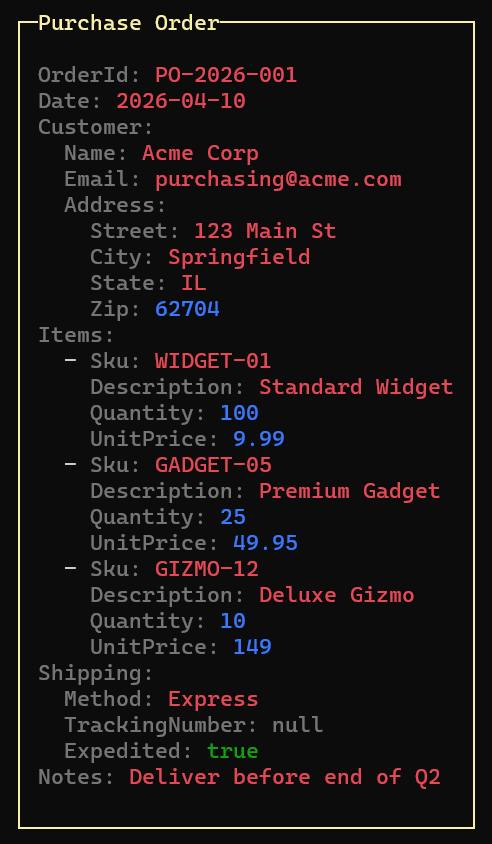
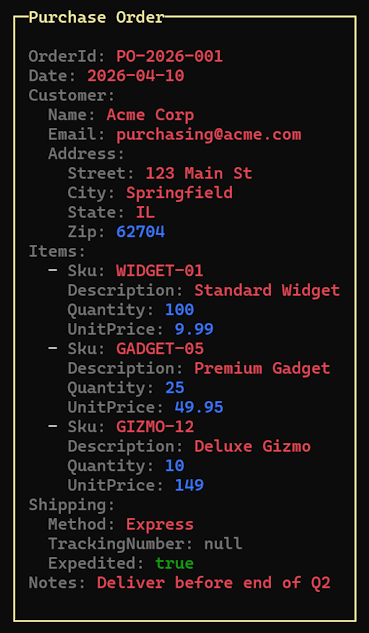
Add documentation

diff --git a/AGENTS.md b/AGENTS.md
@@ -1,0 +1,156 @@
+# Spectre.Yaml — Agent & Contributor Guide
+
+This file documents the architecture, conventions, and workflows for contributors and AI agents
+working on this repository.
+
+## Repository layout
+
+```
+Spectre.Yaml/
+├── readme.md                      # User-facing documentation (rendered on GitHub + NuGet)
+├── src/
+│   ├── Spectre.Yaml/
+│   │   ├── YamlText.cs            # Core implementation (YamlText + YamlTextExtensions)
+│   │   └── readme.md              # NuGet package readme (includes root readme.md#content)
+│   ├── Tests/
+│   │   └── YamlTextTests.cs       # xUnit tests
+│   ├── Sample/
+│   │   └── Program.cs             # Runnable demo showing YamlText inside a Panel
+│   ├── Directory.Build.props      # Shared build/NuGet/versioning defaults
+│   └── Directory.Build.targets    # Shared build targets (packaging, source control)
+└── .github/
+    └── workflows/                 # CI (build, test, release)
+```
+
+## Build and test
+
+```shell
+dotnet build Spectre.Yaml.slnx
+dotnet test  Spectre.Yaml.slnx
+```
+
+- Target framework: **net10.0**
+- Language version: **Latest** (C# 13+), **Nullable** enabled, `strict` features
+- Warnings-as-errors in CI and Release configurations
+
+## Architecture
+
+### `YamlText` (Spectre.Console namespace)
+
+`YamlText` extends `JustInTimeRenderable` (from `Spectre.Console`). The heavy work is deferred
+to `Build()`, which is called by Spectre's rendering pipeline exactly once and must return an
+`IRenderable`.
+
+```
+YamlText : JustInTimeRenderable
+  ├── string yaml          (raw YAML, never null)
+  ├── Style? KeyStyle      (default: Color.Grey)
+  ├── Style? StringStyle   (default: Color.Red)
+  ├── Style? NumberStyle   (default: Color.Blue)
+  ├── Style? BooleanStyle  (default: Color.Green)
+  ├── Style? NullStyle     (default: Color.Grey)
+  └── Style? CommentStyle  (default: Color.Grey + Decoration.Dim)
+```
+
+**Constructors**
+
+| Constructor | Input | Notes |
+|---|---|---|
+| `YamlText(string yaml)` | Raw YAML | Primary constructor |
+| `YamlText(JsonNode json)` | `System.Text.Json.Nodes.JsonNode` | Converted via `ConvertJsonToYaml` |
+| `YamlText(JsonElement json)` | `System.Text.Json.JsonElement` | Converted via `ConvertJsonToYaml` |
+| `YamlText(object value)` | Arbitrary .NET object | Serialized with `JsonSerializer`, then converted |
+
+All constructors funnel through the primary `YamlText(string yaml)`.
+
+### `Build()` — YAML rendering pipeline
+
+`Build()` uses a **YamlDotNet streaming parser** (`YamlDotNet.Core.Parser`) to walk the event
+stream and accumulate styled spans into a single Spectre `Paragraph`.
+
+Key state variables:
+
+| Variable | Purpose |
+|---|---|
+| `mappingDepth` | How many mapping levels deep we are |
+| `sequenceDepth` | How many sequence levels deep we are |
+| `expectingKey` | Whether the next scalar is a mapping key |
+| `indent` | Current indentation in spaces |
+| `indentStack` | Stack to restore indent when leaving a mapping/sequence |
+| `needNewline` | Whether to emit a newline before the next token |
+| `firstEvent` | Suppresses indent increase on the outermost container |
+| `sequenceItemFirstKey` | Marks the first key of a direct sequence-item mapping (emits `- `) |
+| `sequenceBaseMappingDepth` | Tracks mapping depth at each sequence level to detect scalar items |
+
+**Token classification** (`AppendStyledValue`):
+1. Null: `"null"`, `"~"`, or empty plain scalar → `nullStyle`
+2. Boolean: `"true"` / `"false"` (case-insensitive) → `booleanStyle`
+3. Number: parses with `double.TryParse` + `ScalarStyle.Plain` guard → `numberStyle`
+4. Quoted string: single/double-quoted → `stringStyle` (wrapped in `"…"`)
+5. Plain string → `stringStyle`
+
+Markup brackets are escaped via `EscapeMarkup` (`[` → `[[`, `]` → `]]`) to avoid conflicts
+with Spectre's markup syntax.
+
+### JSON → YAML conversion
+
+When a `JsonNode`, `JsonElement`, or object is passed, `ConvertJsonToYaml` converts it first:
+
+```
+ConvertJsonToYaml(string json)
+  └── WriteElement(writer, element, indent, isSequenceItem)
+        ├── Object  → property-by-property, recursive
+        ├── Array   → each item with isSequenceItem=true (emits "- " prefix)
+        └── Scalar  → WriteScalar (handles String/Number/True/False/Null)
+```
+
+String values containing `\n`, `:`, `#`, `'`, or `"` are double-quoted and escaped.
+
+### `YamlTextExtensions`
+
+Fluent extension methods pair with every `Style` property:
+- `KeyStyle(Style?)` / `KeyColor(Color)` → sets `YamlText.KeyStyle`
+- Same pattern for `String`, `Number`, `Boolean`, `Null`, `Comment`
+
+All extension methods return `YamlText` for chaining and throw `ArgumentNullException` for a
+null `text` argument (via the global `ThrowIfNull` using from `Directory.Build.props`).
+
+## Code conventions
+
+- **Namespace**: `Spectre.Console` — `YamlText` sits in the same namespace as Spectre itself so
+  users don't need an extra `using`.
+- **RootNamespace**: set to the first segment of the project name (`Spectre` for
+  `Spectre.Yaml`) via `Directory.Build.props`.
+- **Global usings**: `ThrowIfNull` (from `System.ArgumentNullException`) and
+  `ThrowIfNullOrEmpty` are available without explicit `using` statements.
+- **Nullable**: enabled project-wide; all public API parameters must be null-checked.
+- **XML docs**: required on all public members; `GenerateDocumentationFile` is `true` by default
+  for non-test projects.
+- **No pager / no interactive output** in tests: use `Spectre.Console.Testing.TestConsole`.
+
+## Testing
+
+Tests live in `src/Tests/YamlTextTests.cs` and use **xUnit** with `Spectre.Console.Testing`.
+
+`TestConsole` captures rendered output as plain text. Tests assert that expected tokens appear
+in `console.Output`. Style/color verification is intentionally lightweight (just "no throw +
+non-empty output") because `TestConsole` strips ANSI codes.
+
+Add a new test for every new constructor, property, or rendering behaviour. Follow the
+`Can_<verb>_<scenario>` naming pattern.
+
+## NuGet packaging
+
+- Package ID: **`Devlooped.Spectre.Yaml`**
+- Packager: **NuGetizer** (via `<PackageReference Include="NuGetizer" />`)
+- `src/Spectre.Yaml/readme.md` is the NuGet package readme; it includes `../../readme.md#content`
+  via the `<!-- include … -->` directive processed by the Devlooped include toolchain.
+- Local builds use version `42.42.42` to always exceed published versions.
+
+## Dependency chain
+
+```
+Spectre.Console  (rendering framework)
+YamlDotNet       (YAML streaming parser — YamlDotNet.Core.Parser)
+System.Text.Json (built-in; used for JSON→YAML conversion)
+```

diff --git a/readme.md b/readme.md
@@ -7,8 +7,99 @@
 
 <!-- include https://github.com/devlooped/.github/raw/main/osmf.md -->
 <!-- #content -->
+## Overview
+
+**Devlooped.Spectre.Yaml** adds a `YamlText` renderable to [Spectre.Console](https://spectreconsole.net/) 
+that displays YAML with syntax-highlighted tokens (keys, strings, numbers, booleans, nulls, and 
+comments). It also accepts JSON and arbitrary .NET objects, automatically converting them to YAML 
+before rendering.
+
+![](https://raw.githubusercontent.com/devlooped/Spectre.Yaml/main/assets/img/order.png)
+
 ## Usage
-*Spectre.Yaml*
+
+### From a YAML string
+
+```csharp
+using Spectre.Console;
+
+AnsiConsole.Write(new YamlText("""
+    server:
+      host: localhost
+      port: 8080
+      tls: true
+    """));
+```
+
+### From a .NET object
+
+```csharp
+using Spectre.Console;
+
+var config = new
+{
+    Server = new { Host = "localhost", Port = 8080, Tls = true },
+    Retries = 3,
+    Tags = new[] { "web", "api" },
+};
+
+AnsiConsole.Write(new YamlText(config));
+```
+
+`System.Text.Json.JsonSerializer` serializes the object; the resulting JSON is then converted 
+to YAML. `JsonNode` and `JsonElement` overloads are also available.
+
+### Inside a Panel
+
+```csharp
+using Spectre.Console;
+
+AnsiConsole.Write(
+    new Panel(new YamlText(myObject))
+        .Header("Configuration")
+        .BorderColor(Color.Yellow)
+        .Padding(1, 1));
+```
+
+## Customizing colors
+
+Each token type has a configurable `Style`. Use the fluent extension methods for the most 
+concise syntax:
+
+```csharp
+var text = new YamlText(yaml)
+    .KeyColor(Color.Yellow)
+    .StringColor(Color.Cyan1)
+    .NumberColor(Color.Blue)
+    .BooleanColor(Color.Green)
+    .NullColor(Color.Grey)
+    .CommentColor(Color.DarkSlateGray1);
+
+AnsiConsole.Write(text);
+```
+
+Or assign `Style` objects directly when you need full control (foreground, background, 
+decorations):
+
+```csharp
+var text = new YamlText(yaml)
+{
+    KeyStyle    = new Style(Color.Yellow, decoration: Decoration.Bold),
+    StringStyle = new Style(Color.Cyan1),
+};
+```
+
+### Default colors
+
+| Token    | Default             |
+|----------|---------------------|
+| Key      | `Color.Grey`        |
+| String   | `Color.Red`         |
+| Number   | `Color.Blue`        |
+| Boolean  | `Color.Green`       |
+| Null     | `Color.Grey`        |
+| Comment  | `Color.Grey` + Dim  |
+
 <!-- #content -->
 ---
 <!-- include https://github.com/devlooped/sponsors/raw/main/footer.md -->
